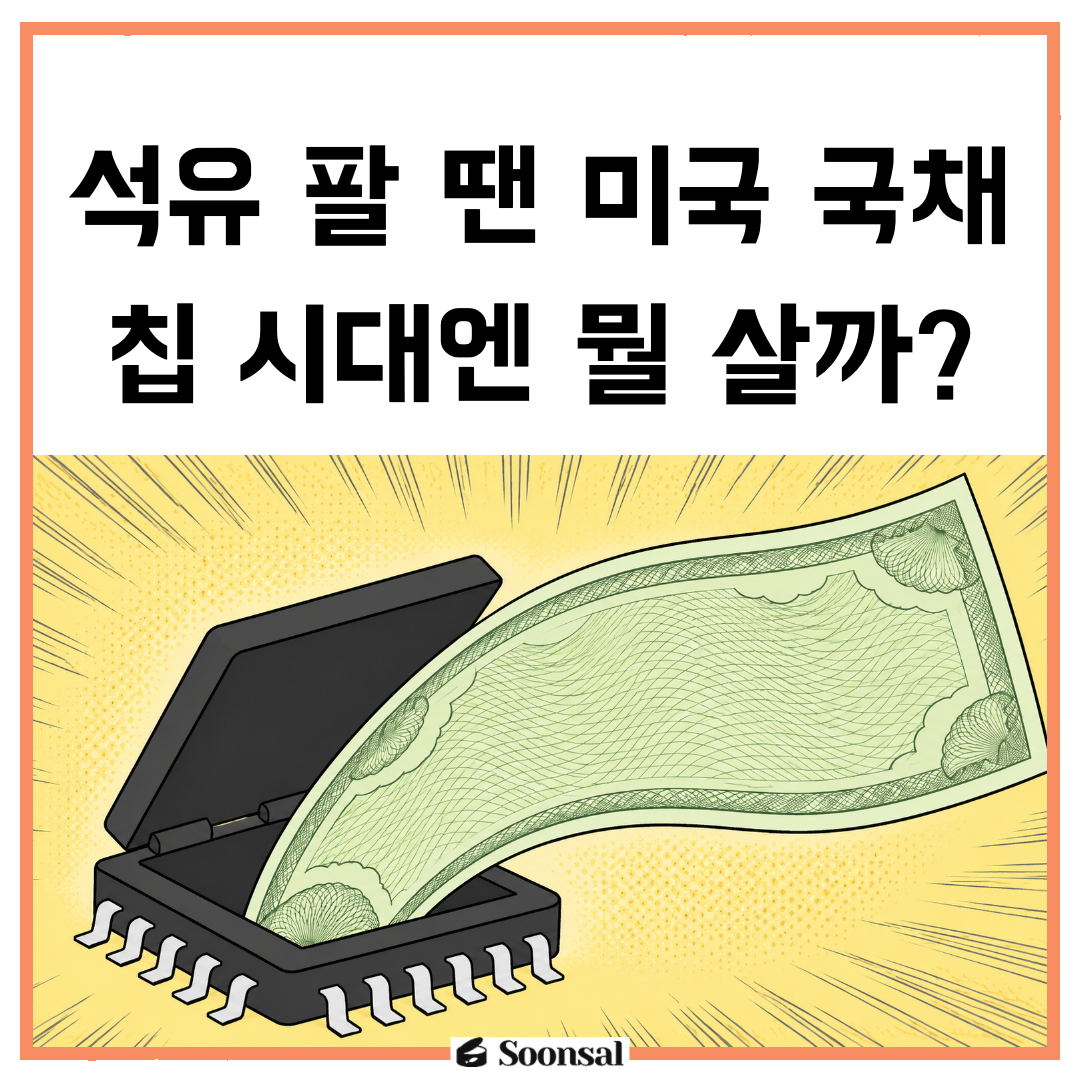
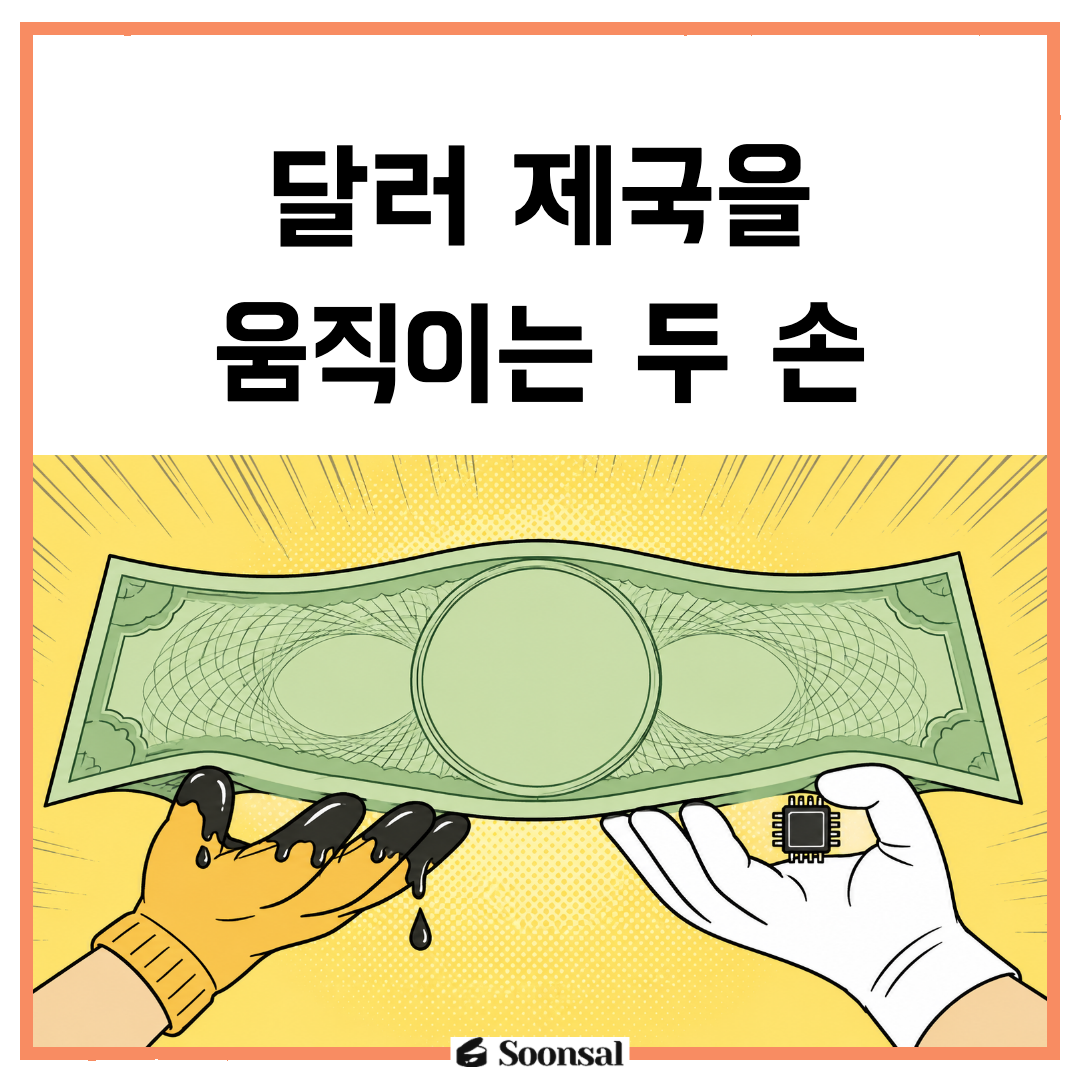
fix(cardnews): 순살 칩달러 편 공개 웹 표지 교체
기존 11월 17일 칩달러 상세 페이지와 목록의 제목을 달러 제국을 움직이는 두 손으로 교체했다. 이전 표지는 새 조판 PNG와 파일 해시가 붙은 섬네일로 바꾸고 기존 공개 주소를 보존했다.

수정 전 페이지의 제목과 표지 해시, 목록의 정확한 항목을 대조했다. 관련 4개 경로의 Git blob 해시를 확인했고 순살 채널의 다른 게시물과 발행 큐는 변경하지 않았다. 공개 응답 검증은 반영 후 진행한다.

diff --git a/cardnews/2026/1117-2.html b/cardnews/2026/1117-2.html
@@ -1,9 +1,9 @@
 <!DOCTYPE html><html lang="ko"><head><meta charset="UTF-8">
 <meta name="viewport" content="width=device-width, initial-scale=1.0">
-<title>미국의 석유 달러와 반도체 달러 | 순살 카드뉴스</title>
-<meta name="description" content="미국의 석유 달러와 반도체 달러 — 순살브리핑 카드뉴스. 전체는 인스타그램에서 보실 수 있어요."/>
-<meta property="og:title" content="미국의 석유 달러와 반도체 달러"/>
-<meta property="og:image" content="https://soonsal.com/assets/cardnews/1117-2.jpg"/>
+<title>달러 제국을 움직이는 두 손 | 순살 카드뉴스</title>
+<meta name="description" content="달러 제국을 움직이는 두 손 — 순살브리핑 카드뉴스. 전체는 인스타그램에서 보실 수 있어요."/>
+<meta property="og:title" content="달러 제국을 움직이는 두 손"/>
+<meta property="og:image" content="https://soonsal.com/assets/cardnews/1117-2-fb95abb3de37.jpg"/>
 <meta property="og:type" content="article"/>
 <link rel="preconnect" href="https://fonts.googleapis.com"/>
 <link href="https://fonts.googleapis.com/css2?family=DM+Sans:wght@400;700;800&display=swap" rel="stylesheet"/>
@@ -29,17 +29,17 @@ color:#fff;text-decoration:none;font-weight:700;font-size:.95rem;border-radius:1
 .sub:hover{color:#E55A00}
 </style>
 <link rel="canonical" href="https://soonsal.com/cardnews/2026/1117-2.html"/>
-<meta name="description" content="미국의 석유 달러와 반도체 달러 | 순살 카드뉴스 — 2026년 11월 17일 순살브리핑. 글로벌 금융·경제·크립토 뉴스를 순살만 발라낸 데일리 브리핑."/>
+<meta name="description" content="달러 제국을 움직이는 두 손 | 순살 카드뉴스 — 2026년 11월 17일 순살브리핑. 글로벌 금융·경제·크립토 뉴스를 순살만 발라낸 데일리 브리핑."/>
 <meta property="og:type" content="article"/>
 <meta property="og:site_name" content="순살브리핑 Soonsal"/>
-<meta property="og:title" content="미국의 석유 달러와 반도체 달러 | 순살 카드뉴스"/>
-<meta property="og:description" content="미국의 석유 달러와 반도체 달러 | 순살 카드뉴스 — 2026년 11월 17일 순살브리핑. 글로벌 금융·경제·크립토 뉴스를 순살만 발라낸 데일리 브리핑."/>
+<meta property="og:title" content="달러 제국을 움직이는 두 손 | 순살 카드뉴스"/>
+<meta property="og:description" content="달러 제국을 움직이는 두 손 | 순살 카드뉴스 — 2026년 11월 17일 순살브리핑. 글로벌 금융·경제·크립토 뉴스를 순살만 발라낸 데일리 브리핑."/>
 <meta property="og:url" content="https://soonsal.com/cardnews/2026/1117-2.html"/>
 <meta property="og:locale" content="ko_KR"/>
 <meta property="og:image" content="https://soonsal.com/cardnews/2026/1117-2_png/card_01.png"/>
 <meta name="twitter:card" content="summary_large_image"/>
-<meta name="twitter:title" content="미국의 석유 달러와 반도체 달러 | 순살 카드뉴스"/>
-<script type="application/ld+json">{"@context": "https://schema.org", "@type": "Article", "headline": "미국의 석유 달러와 반도체 달러 | 순살 카드뉴스", "datePublished": "2026-11-17T09:00:00+09:00", "dateModified": "2026-11-17T09:00:00+09:00", "inLanguage": "ko", "mainEntityOfPage": "https://soonsal.com/cardnews/2026/1117-2.html", "author": {"@type": "Organization", "name": "순살브리핑", "url": "https://soonsal.com/"}, "publisher": {"@type": "Organization", "name": "순살브리핑", "logo": {"@type": "ImageObject", "url": "https://soonsal.com/apple-touch-icon.png"}}, "image": ["https://soonsal.com/cardnews/2026/1117-2_png/card_01.png"]}</script>
+<meta name="twitter:title" content="달러 제국을 움직이는 두 손 | 순살 카드뉴스"/>
+<script type="application/ld+json">{"@context": "https://schema.org", "@type": "Article", "headline": "달러 제국을 움직이는 두 손 | 순살 카드뉴스", "datePublished": "2026-11-17T09:00:00+09:00", "dateModified": "2026-11-17T09:00:00+09:00", "inLanguage": "ko", "mainEntityOfPage": "https://soonsal.com/cardnews/2026/1117-2.html", "author": {"@type": "Organization", "name": "순살브리핑", "url": "https://soonsal.com/"}, "publisher": {"@type": "Organization", "name": "순살브리핑", "logo": {"@type": "ImageObject", "url": "https://soonsal.com/apple-touch-icon.png"}}, "image": ["https://soonsal.com/cardnews/2026/1117-2_png/card_01.png"]}</script>
 </head><body>
 <div id="soonsal-live-ticker" style="display:none;"></div>
 <style>
@@ -84,8 +84,8 @@ color:#fff;text-decoration:none;font-weight:700;font-size:.95rem;border-radius:1
 </script><div class="w">
 <a class="bk" href="/cardnews/">← 카드뉴스 전체</a>
 <p class="dt">2026.11.17</p>
-<h1>미국의 석유 달러와 반도체 달러</h1>
-<img class="cv" src="/assets/cardnews/1117-2.jpg" alt="미국의 석유 달러와 반도체 달러" width="1080" loading="eager"/>
+<h1>달러 제국을 움직이는 두 손</h1>
+<img class="cv" src="/assets/cardnews/1117-2-fb95abb3de37.jpg" alt="달러 제국을 움직이는 두 손" width="1080" loading="eager"/>
 <div class="cta">
 <p><b>나머지 장은 인스타에 있어요.</b><br>저장해두고 나중에 다시 보거나, 친구에게 넘기기 편해요.</p>
 <a class="go" href="https://www.instagram.com/soonsal.brief/" target="_blank" rel="noopener">인스타그램에서 전체 보기 →</a>

diff --git a/cardnews/index.html b/cardnews/index.html
@@ -449,7 +449,7 @@ transition:color .18s ease,background .18s ease}
 <div class="today">
     <div class="today-title">2026.11.17</div>
     <div class="today-grid" style="grid-template-columns:1fr; gap:10px;">
-      <a href="/cardnews/2026/1117-2.html" style="display:flex; align-items:center; gap:10px;"><span class="tag tag-card">Card</span>순살카드뉴스 · 미국의 석유 달러와 반도체 달러</a>
+      <a href="/cardnews/2026/1117-2.html" style="display:flex; align-items:center; gap:10px;"><span class="tag tag-card">Card</span>순살카드뉴스 · 달러 제국을 움직이는 두 손</a>
     </div>
   </div>
 
